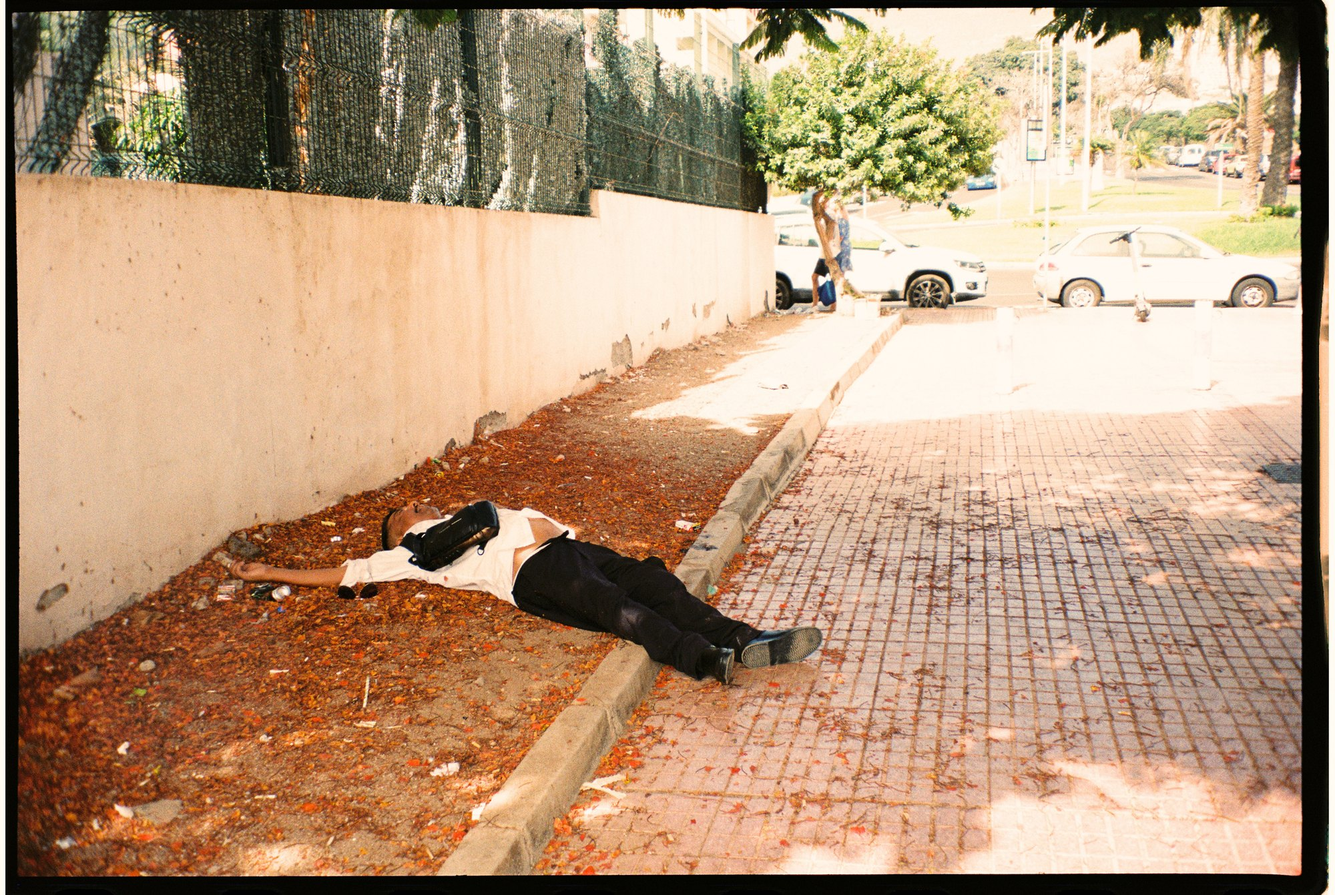
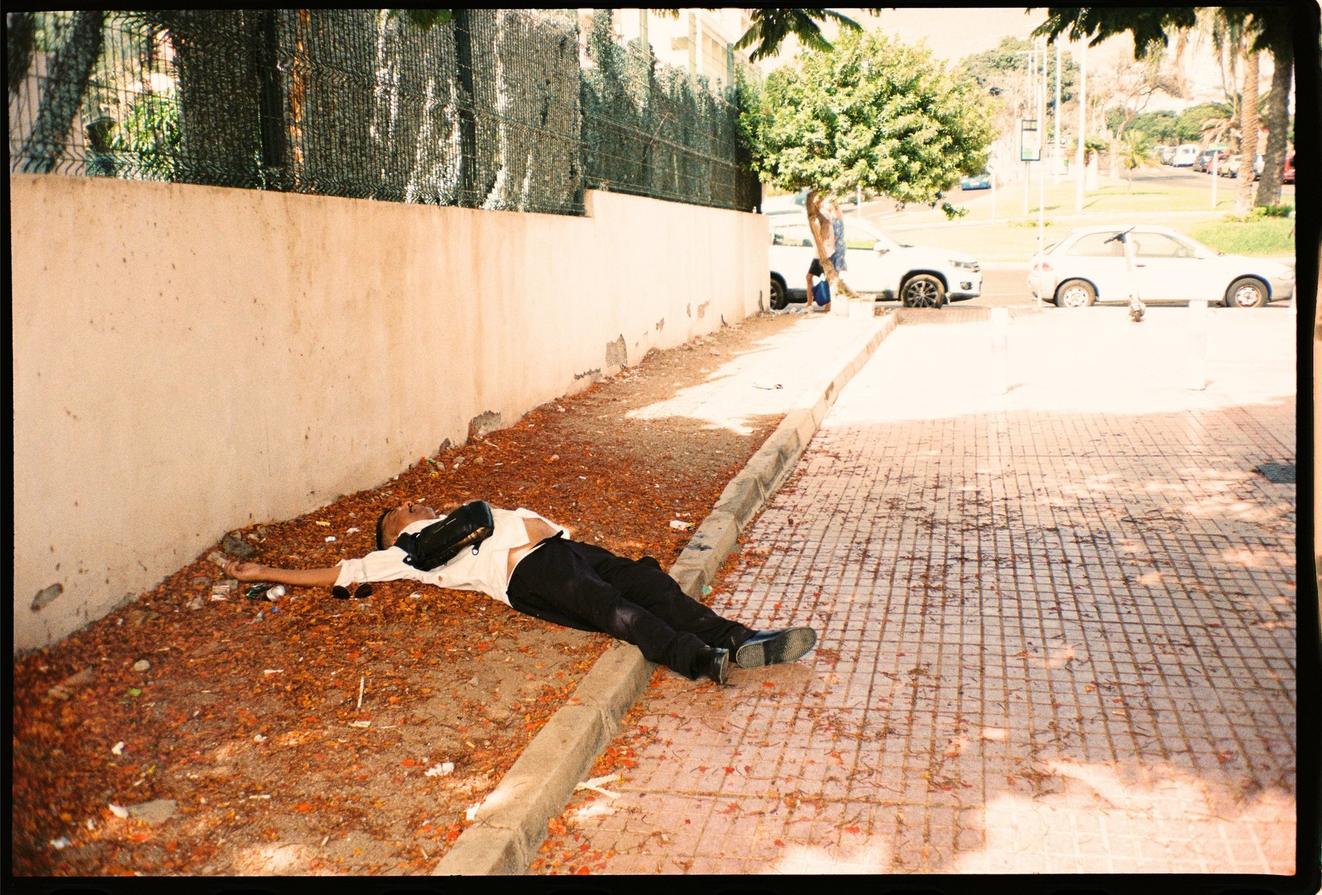
CALIMA: trim white paper borders, full cart frame; psychedelic wink on theme toggle
Claude-Session: https://claude.ai/code/session_01KwFkcjtweLDd6qYYzFRxw4

diff --git a/es/calima.html b/es/calima.html
@@ -27,7 +27,7 @@
 <link href="https://fonts.googleapis.com" rel="preconnect"/>
 <link crossorigin="" href="https://fonts.gstatic.com" rel="preconnect"/>
 <link href="https://fonts.googleapis.com/css2?family=Archivo:wght@400;500;700&amp;family=Hanken+Grotesk:wght@500;600&amp;family=Cormorant+Garamond:ital,wght@1,400;1,500&amp;display=swap" rel="stylesheet"/>
-<link href="../css/site.css?v=041683b8" rel="stylesheet"/>
+<link href="../css/site.css?v=be0b82aa" rel="stylesheet"/>
 <script>(function(){try{var t=localStorage.getItem("site-theme")}catch(e){}if(!t&&window.matchMedia&&matchMedia("(prefers-color-scheme: dark)").matches)t="dark";if(t==="dark")document.documentElement.setAttribute("data-theme","dark")})();</script>
 <script>window.ROOT='../';</script></head>
 <body class="calima-page">
@@ -120,6 +120,6 @@ document.querySelectorAll('.seq-item img, .cal-pair img').forEach(function (img)
 <script src="../js/print.js?v=189a76f2"></script>
 <script src="../js/player.js?v=9f25ec93"></script>
 <script src="../js/lang.js?v=558c6978"></script>
-<script src="../js/theme.js?v=4df66a4c"></script>
+<script src="../js/theme.js?v=3c816b43"></script>
 </body>
 </html>

diff --git a/es/dos-amigos.html b/es/dos-amigos.html
@@ -27,7 +27,7 @@
 <link href="https://fonts.googleapis.com" rel="preconnect"/>
 <link crossorigin="" href="https://fonts.gstatic.com" rel="preconnect"/>
 <link href="https://fonts.googleapis.com/css2?family=Archivo:wght@400;500;700&amp;family=Hanken+Grotesk:wght@500;600&amp;family=Cormorant+Garamond:ital,wght@1,400;1,500&amp;display=swap" rel="stylesheet"/>
-<link href="../css/site.css?v=041683b8" rel="stylesheet"/>
+<link href="../css/site.css?v=be0b82aa" rel="stylesheet"/>
 <script>(function(){try{var t=localStorage.getItem("site-theme")}catch(e){}if(!t&&window.matchMedia&&matchMedia("(prefers-color-scheme: dark)").matches)t="dark";if(t==="dark")document.documentElement.setAttribute("data-theme","dark")})();</script>
 <script>window.ROOT='../';</script></head>
 <body>
@@ -116,6 +116,6 @@ document.querySelectorAll('.poster-pair img').forEach(function(i){ i.addEventLis
 <script src="../js/print.js?v=189a76f2"></script>
 <script src="../js/player.js?v=9f25ec93"></script>
 <script src="../js/lang.js?v=558c6978"></script>
-<script src="../js/theme.js?v=4df66a4c"></script>
+<script src="../js/theme.js?v=3c816b43"></script>
 </body>
 </html>

diff --git a/es/gallery.html b/es/gallery.html
@@ -27,7 +27,7 @@
 <link href="https://fonts.googleapis.com" rel="preconnect"/>
 <link crossorigin="" href="https://fonts.gstatic.com" rel="preconnect"/>
 <link href="https://fonts.googleapis.com/css2?family=Archivo:wght@400;500;700&amp;family=Hanken+Grotesk:wght@500;600&amp;family=Cormorant+Garamond:ital,wght@1,400;1,500&amp;display=swap" rel="stylesheet"/>
-<link href="../css/site.css?v=041683b8" rel="stylesheet"/>
+<link href="../css/site.css?v=be0b82aa" rel="stylesheet"/>
 <script>(function(){try{var t=localStorage.getItem("site-theme")}catch(e){}if(!t&&window.matchMedia&&matchMedia("(prefers-color-scheme: dark)").matches)t="dark";if(t==="dark")document.documentElement.setAttribute("data-theme","dark")})();</script>
 <script>window.ROOT='../';</script></head>
 <body class="photo-page">
@@ -166,6 +166,6 @@ document.addEventListener('keydown', function (e) {
 <script src="../js/print.js?v=189a76f2"></script>
 <script src="../js/player.js?v=9f25ec93"></script>
 <script src="../js/lang.js?v=558c6978"></script>
-<script src="../js/theme.js?v=4df66a4c"></script>
+<script src="../js/theme.js?v=3c816b43"></script>
 </body>
 </html>

diff --git a/es/tierra-de-nadie.html b/es/tierra-de-nadie.html
@@ -27,7 +27,7 @@
 <link href="https://fonts.googleapis.com" rel="preconnect"/>
 <link crossorigin="" href="https://fonts.gstatic.com" rel="preconnect"/>
 <link href="https://fonts.googleapis.com/css2?family=Archivo:wght@400;500;700&amp;family=Hanken+Grotesk:wght@500;600&amp;family=Cormorant+Garamond:ital,wght@1,400;1,500&amp;display=swap" rel="stylesheet"/>
-<link href="../css/site.css?v=041683b8" rel="stylesheet"/>
+<link href="../css/site.css?v=be0b82aa" rel="stylesheet"/>
 <script>(function(){try{var t=localStorage.getItem("site-theme")}catch(e){}if(!t&&window.matchMedia&&matchMedia("(prefers-color-scheme: dark)").matches)t="dark";if(t==="dark")document.documentElement.setAttribute("data-theme","dark")})();</script>
 <script>window.ROOT='../';</script></head>
 <body>
@@ -111,6 +111,6 @@ document.querySelectorAll('.seq-item img').forEach(function (img) {
 <script src="../js/print.js?v=189a76f2"></script>
 <script src="../js/player.js?v=9f25ec93"></script>
 <script src="../js/lang.js?v=558c6978"></script>
-<script src="../js/theme.js?v=4df66a4c"></script>
+<script src="../js/theme.js?v=3c816b43"></script>
 </body>
 </html>

diff --git a/es/index.html b/es/index.html
@@ -28,7 +28,7 @@
 <link href="https://fonts.googleapis.com" rel="preconnect"/>
 <link crossorigin="" href="https://fonts.gstatic.com" rel="preconnect"/>
 <link href="https://fonts.googleapis.com/css2?family=Archivo:wght@400;500;700&amp;family=Hanken+Grotesk:wght@500;600&amp;family=Cormorant+Garamond:ital,wght@1,400;1,500&amp;display=swap" rel="stylesheet"/>
-<link href="../css/site.css?v=041683b8" rel="stylesheet"/>
+<link href="../css/site.css?v=be0b82aa" rel="stylesheet"/>
 <script>(function(){try{var t=localStorage.getItem("site-theme")}catch(e){}if(!t&&window.matchMedia&&matchMedia("(prefers-color-scheme: dark)").matches)t="dark";if(t==="dark")document.documentElement.setAttribute("data-theme","dark")})();</script>
 <script>window.ROOT='../';</script></head>
 <body class="landing">
@@ -126,6 +126,6 @@ document.addEventListener('keydown', function (e) { if (e.key === 'Escape') clos
 </script>
 <script src="../js/player.js?v=9f25ec93"></script>
 <script src="../js/lang.js?v=558c6978"></script>
-<script src="../js/theme.js?v=4df66a4c"></script>
+<script src="../js/theme.js?v=3c816b43"></script>
 </body>
 </html>

diff --git a/es/films.html b/es/films.html
@@ -27,7 +27,7 @@
 <link href="https://fonts.googleapis.com" rel="preconnect"/>
 <link crossorigin="" href="https://fonts.gstatic.com" rel="preconnect"/>
 <link href="https://fonts.googleapis.com/css2?family=Archivo:wght@400;500;700&amp;family=Hanken+Grotesk:wght@500;600&amp;family=Cormorant+Garamond:ital,wght@1,400;1,500&amp;display=swap" rel="stylesheet"/>
-<link href="../css/site.css?v=041683b8" rel="stylesheet"/>
+<link href="../css/site.css?v=be0b82aa" rel="stylesheet"/>
 <script>(function(){try{var t=localStorage.getItem("site-theme")}catch(e){}if(!t&&window.matchMedia&&matchMedia("(prefers-color-scheme: dark)").matches)t="dark";if(t==="dark")document.documentElement.setAttribute("data-theme","dark")})();</script>
 <script>window.ROOT='../';</script></head>
 <body class="films-page">
@@ -134,6 +134,6 @@ document.querySelectorAll('.ph img').forEach(function (img) {
 </script>
 <script src="../js/player.js?v=9f25ec93"></script>
 <script src="../js/lang.js?v=558c6978"></script>
-<script src="../js/theme.js?v=4df66a4c"></script>
+<script src="../js/theme.js?v=3c816b43"></script>
 </body>
 </html>

diff --git a/calima.html b/calima.html
@@ -26,7 +26,7 @@
 <link rel="preconnect" href="https://fonts.googleapis.com">
 <link rel="preconnect" href="https://fonts.gstatic.com" crossorigin>
 <link href="https://fonts.googleapis.com/css2?family=Archivo:wght@400;500;700&family=Hanken+Grotesk:wght@500;600&family=Cormorant+Garamond:ital,wght@1,400;1,500&display=swap" rel="stylesheet">
-<link rel="stylesheet" href="css/site.css?v=041683b8">
+<link rel="stylesheet" href="css/site.css?v=be0b82aa">
 <script>(function(){try{var t=localStorage.getItem("site-theme")}catch(e){}if(!t&&window.matchMedia&&matchMedia("(prefers-color-scheme: dark)").matches)t="dark";if(t==="dark")document.documentElement.setAttribute("data-theme","dark")})();</script>
 </head>
 <body class="calima-page">
@@ -141,6 +141,6 @@ document.querySelectorAll('.seq-item img, .cal-pair img').forEach(function (img)
 <script src="js/print.js?v=189a76f2"></script>
 <script src="js/player.js?v=9f25ec93"></script>
 <script src="js/lang.js?v=558c6978"></script>
-<script src="js/theme.js?v=4df66a4c"></script>
+<script src="js/theme.js?v=3c816b43"></script>
 </body>
 </html>

diff --git a/es/bienvenido-al-futuro.html b/es/bienvenido-al-futuro.html
@@ -27,7 +27,7 @@
 <link href="https://fonts.googleapis.com" rel="preconnect"/>
 <link crossorigin="" href="https://fonts.gstatic.com" rel="preconnect"/>
 <link href="https://fonts.googleapis.com/css2?family=Archivo:wght@400;500;700&amp;family=Hanken+Grotesk:wght@500;600&amp;family=Cormorant+Garamond:ital,wght@1,400;1,500&amp;display=swap" rel="stylesheet"/>
-<link href="../css/site.css?v=041683b8" rel="stylesheet"/>
+<link href="../css/site.css?v=be0b82aa" rel="stylesheet"/>
 <script>(function(){try{var t=localStorage.getItem("site-theme")}catch(e){}if(!t&&window.matchMedia&&matchMedia("(prefers-color-scheme: dark)").matches)t="dark";if(t==="dark")document.documentElement.setAttribute("data-theme","dark")})();</script>
 <script>window.ROOT='../';</script></head>
 <body>
@@ -105,6 +105,6 @@ document.querySelectorAll('.ph img').forEach(function (img) {
 </script>
 <script src="../js/player.js?v=9f25ec93"></script>
 <script src="../js/lang.js?v=558c6978"></script>
-<script src="../js/theme.js?v=4df66a4c"></script>
+<script src="../js/theme.js?v=3c816b43"></script>
 </body>
 </html>

diff --git a/es/eurosocial.html b/es/eurosocial.html
@@ -27,7 +27,7 @@
 <link href="https://fonts.googleapis.com" rel="preconnect"/>
 <link crossorigin="" href="https://fonts.gstatic.com" rel="preconnect"/>
 <link href="https://fonts.googleapis.com/css2?family=Archivo:wght@400;500;700&amp;family=Hanken+Grotesk:wght@500;600&amp;family=Cormorant+Garamond:ital,wght@1,400;1,500&amp;display=swap" rel="stylesheet"/>
-<link href="../css/site.css?v=041683b8" rel="stylesheet"/>
+<link href="../css/site.css?v=be0b82aa" rel="stylesheet"/>
 <script>(function(){try{var t=localStorage.getItem("site-theme")}catch(e){}if(!t&&window.matchMedia&&matchMedia("(prefers-color-scheme: dark)").matches)t="dark";if(t==="dark")document.documentElement.setAttribute("data-theme","dark")})();</script>
 <script>window.ROOT='../';</script></head>
 <body>
@@ -101,6 +101,6 @@ document.querySelectorAll('.ph img').forEach(function (img) {
 </script>
 <script src="../js/player.js?v=9f25ec93"></script>
 <script src="../js/lang.js?v=558c6978"></script>
-<script src="../js/theme.js?v=4df66a4c"></script>
+<script src="../js/theme.js?v=3c816b43"></script>
 </body>
 </html>

diff --git a/es/free-tour.html b/es/free-tour.html
@@ -27,7 +27,7 @@
 <link href="https://fonts.googleapis.com" rel="preconnect"/>
 <link crossorigin="" href="https://fonts.gstatic.com" rel="preconnect"/>
 <link href="https://fonts.googleapis.com/css2?family=Archivo:wght@400;500;700&amp;family=Hanken+Grotesk:wght@500;600&amp;family=Cormorant+Garamond:ital,wght@1,400;1,500&amp;display=swap" rel="stylesheet"/>
-<link href="../css/site.css?v=041683b8" rel="stylesheet"/>
+<link href="../css/site.css?v=be0b82aa" rel="stylesheet"/>
 <script>(function(){try{var t=localStorage.getItem("site-theme")}catch(e){}if(!t&&window.matchMedia&&matchMedia("(prefers-color-scheme: dark)").matches)t="dark";if(t==="dark")document.documentElement.setAttribute("data-theme","dark")})();</script>
 <script>window.ROOT='../';</script></head>
 <body>
@@ -147,6 +147,6 @@ document.querySelectorAll('.ph img').forEach(function (img) {
 </script>
 <script src="../js/player.js?v=9f25ec93"></script>
 <script src="../js/lang.js?v=558c6978"></script>
-<script src="../js/theme.js?v=4df66a4c"></script>
+<script src="../js/theme.js?v=3c816b43"></script>
 </body>
 </html>

diff --git a/es/nueva-vida.html b/es/nueva-vida.html
@@ -27,7 +27,7 @@
 <link href="https://fonts.googleapis.com" rel="preconnect"/>
 <link crossorigin="" href="https://fonts.gstatic.com" rel="preconnect"/>
 <link href="https://fonts.googleapis.com/css2?family=Archivo:wght@400;500;700&amp;family=Hanken+Grotesk:wght@500;600&amp;family=Cormorant+Garamond:ital,wght@1,400;1,500&amp;display=swap" rel="stylesheet"/>
-<link href="../css/site.css?v=041683b8" rel="stylesheet"/>
+<link href="../css/site.css?v=be0b82aa" rel="stylesheet"/>
 <script>(function(){try{var t=localStorage.getItem("site-theme")}catch(e){}if(!t&&window.matchMedia&&matchMedia("(prefers-color-scheme: dark)").matches)t="dark";if(t==="dark")document.documentElement.setAttribute("data-theme","dark")})();</script>
 <script>window.ROOT='../';</script></head>
 <body>
@@ -120,6 +120,6 @@ document.querySelectorAll('.ph img').forEach(function (img) {
 </script>
 <script src="../js/player.js?v=9f25ec93"></script>
 <script src="../js/lang.js?v=558c6978"></script>
-<script src="../js/theme.js?v=4df66a4c"></script>
+<script src="../js/theme.js?v=3c816b43"></script>
 </body>
 </html>

diff --git a/es/work.html b/es/work.html
@@ -27,7 +27,7 @@
 <link href="https://fonts.googleapis.com" rel="preconnect"/>
 <link crossorigin="" href="https://fonts.gstatic.com" rel="preconnect"/>
 <link href="https://fonts.googleapis.com/css2?family=Archivo:wght@400;500;700&amp;family=Hanken+Grotesk:wght@500;600&amp;family=Cormorant+Garamond:ital,wght@1,400;1,500&amp;display=swap" rel="stylesheet"/>
-<link href="../css/site.css?v=041683b8" rel="stylesheet"/>
+<link href="../css/site.css?v=be0b82aa" rel="stylesheet"/>
 <script>(function(){try{var t=localStorage.getItem("site-theme")}catch(e){}if(!t&&window.matchMedia&&matchMedia("(prefers-color-scheme: dark)").matches)t="dark";if(t==="dark")document.documentElement.setAttribute("data-theme","dark")})();</script>
 <script>window.ROOT='../';</script></head>
 <body>
@@ -145,6 +145,6 @@ document.querySelectorAll('.ph img').forEach(function (img) {
 </script>
 <script src="../js/player.js?v=9f25ec93"></script>
 <script src="../js/lang.js?v=558c6978"></script>
-<script src="../js/theme.js?v=4df66a4c"></script>
+<script src="../js/theme.js?v=3c816b43"></script>
 </body>
 </html>
